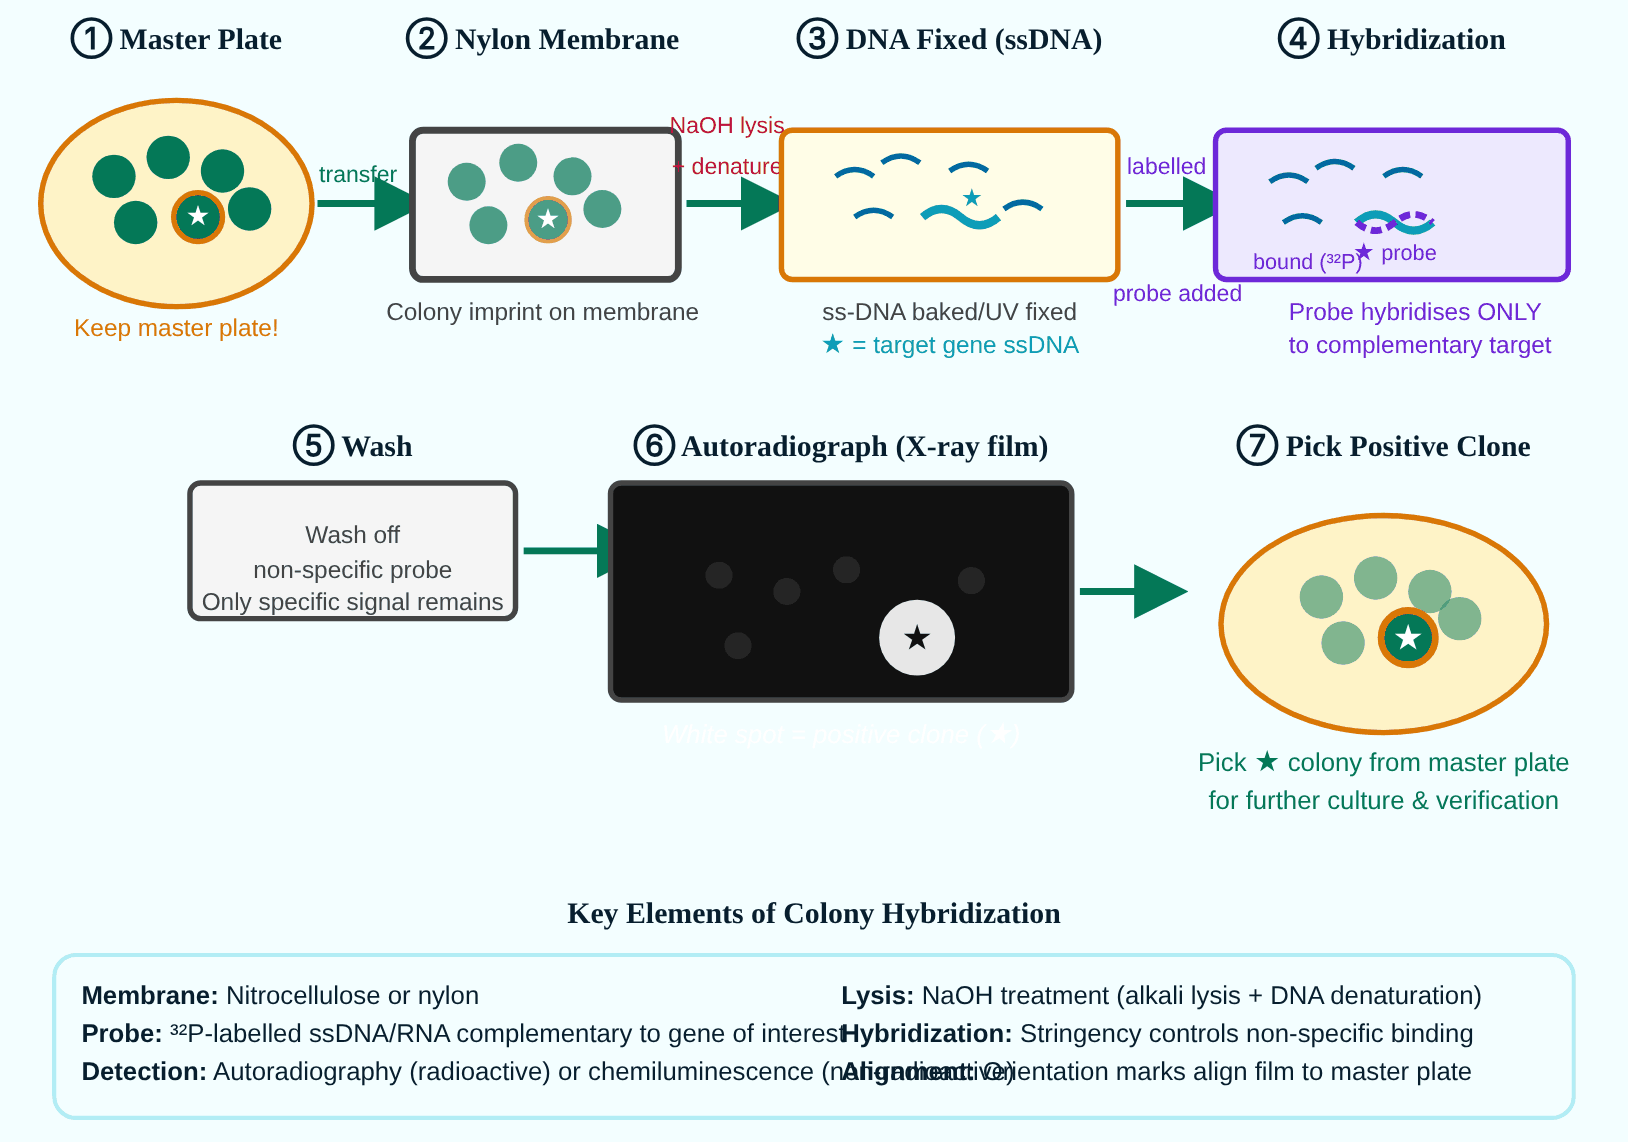
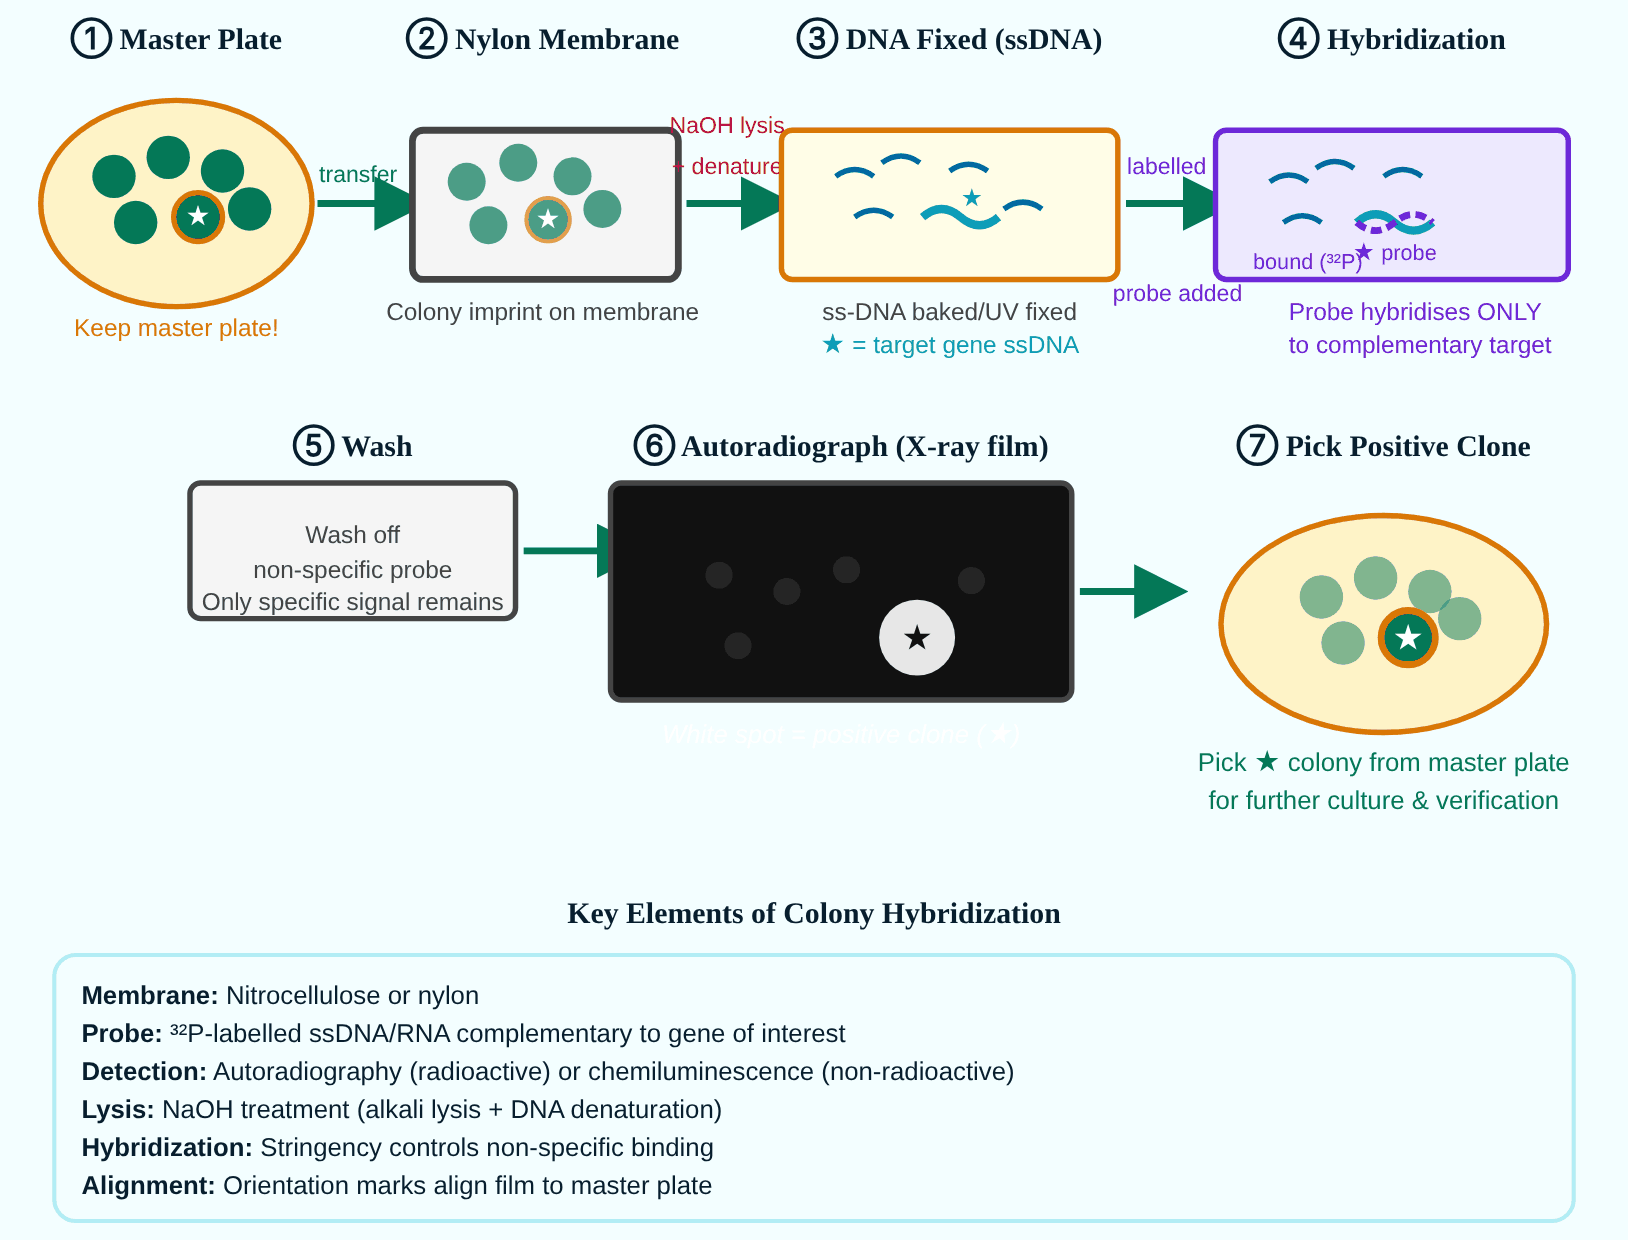
fix(diagrams): colony-hybridization key box and vector-size chart overlaps (layout only, text unchanged)
Claude-Session: https://claude.ai/code/session_01Wo7Biy93fw6YCyh6drJ1WX

diff --git a/html-suite/screening_selection_recombinants.html b/html-suite/screening_selection_recombinants.html
@@ -1120,7 +1120,7 @@ footer .fa{font-size:.82rem;color:#3d6870;margin-top:5px;}
        ============================================================ -->
   <div class="dtitle">Fig. 4 — Colony Hybridization: Step-by-Step Probe Detection</div>
   <div class="dbox">
-    <svg viewBox="0 0 600 420" xmlns="http://www.w3.org/2000/svg" aria-label="Colony hybridization steps">
+    <svg viewBox="0 0 600 456" xmlns="http://www.w3.org/2000/svg" aria-label="Colony hybridization steps">
       <defs>
         <marker id="ch1" markerWidth="8" markerHeight="8" refX="4" refY="4" orient="auto"><path d="M0,0 L0,8 L8,4 z" fill="#047857"/></marker>
       </defs>
@@ -1239,13 +1239,13 @@ footer .fa{font-size:.82rem;color:#3d6870;margin-top:5px;}
 
       <!-- Bottom legend -->
       <text x="300" y="340" text-anchor="middle" font-family="Palatino,serif" font-size="11" font-weight="700" fill="#071e2e">Key Elements of Colony Hybridization</text>
-      <rect x="20" y="352" width="560" height="60" rx="8" fill="#f3feff" stroke="#b2edf5" stroke-width="1.5"/>
+      <rect x="20" y="352" width="560" height="98" rx="8" fill="#f3feff" stroke="#b2edf5" stroke-width="1.5"/>
       <text x="30" y="370" font-family="'Trebuchet MS',sans-serif" font-size="9.5" fill="#071e2e"><tspan font-weight="700">Membrane:</tspan> Nitrocellulose or nylon</text>
       <text x="30" y="384" font-family="'Trebuchet MS',sans-serif" font-size="9.5" fill="#071e2e"><tspan font-weight="700">Probe:</tspan> ³²P-labelled ssDNA/RNA complementary to gene of interest</text>
       <text x="30" y="398" font-family="'Trebuchet MS',sans-serif" font-size="9.5" fill="#071e2e"><tspan font-weight="700">Detection:</tspan> Autoradiography (radioactive) or chemiluminescence (non-radioactive)</text>
-      <text x="310" y="370" font-family="'Trebuchet MS',sans-serif" font-size="9.5" fill="#071e2e"><tspan font-weight="700">Lysis:</tspan> NaOH treatment (alkali lysis + DNA denaturation)</text>
-      <text x="310" y="384" font-family="'Trebuchet MS',sans-serif" font-size="9.5" fill="#071e2e"><tspan font-weight="700">Hybridization:</tspan> Stringency controls non-specific binding</text>
-      <text x="310" y="398" font-family="'Trebuchet MS',sans-serif" font-size="9.5" fill="#071e2e"><tspan font-weight="700">Alignment:</tspan> Orientation marks align film to master plate</text>
+      <text x="30" y="412" font-family="'Trebuchet MS',sans-serif" font-size="9.5" fill="#071e2e"><tspan font-weight="700">Lysis:</tspan> NaOH treatment (alkali lysis + DNA denaturation)</text>
+      <text x="30" y="426" font-family="'Trebuchet MS',sans-serif" font-size="9.5" fill="#071e2e"><tspan font-weight="700">Hybridization:</tspan> Stringency controls non-specific binding</text>
+      <text x="30" y="440" font-family="'Trebuchet MS',sans-serif" font-size="9.5" fill="#071e2e"><tspan font-weight="700">Alignment:</tspan> Orientation marks align film to master plate</text>
     </svg>
   </div>
 

diff --git a/html-suite/dna_library_genomic_cdna.html b/html-suite/dna_library_genomic_cdna.html
@@ -1125,7 +1125,7 @@ footer .fa { font-size:0.82rem; color:#3d6870; margin-top:5px; }
       <line x1="365" y1="168" x2="365" y2="172" stroke="#082032" stroke-width="1.5"/>
       <line x1="540" y1="168" x2="540" y2="172" stroke="#082032" stroke-width="1.5"/>
       <!-- Y axis label -->
-      <text x="60" y="100" text-anchor="middle" font-family="'Trebuchet MS',sans-serif" font-size="10" fill="#496570" transform="rotate(-90 60 100)">Vector Type</text>
+      <text x="10" y="100" text-anchor="middle" font-family="'Trebuchet MS',sans-serif" font-size="10" fill="#496570" transform="rotate(-90 10 100)">Vector Type</text>
 
       <!-- Plasmid bar -->
       <rect x="100" y="30" width="100" height="25" rx="4" fill="#dbeafe" stroke="#0369a1" stroke-width="1.8"/>
@@ -1145,7 +1145,7 @@ footer .fa { font-size:0.82rem; color:#3d6870; margin-top:5px; }
       <!-- YAC bar -->
       <rect x="100" y="144" width="440" height="20" rx="4" fill="#ede9fe" stroke="#6d28d9" stroke-width="1.8"/>
       <text x="95" y="158" text-anchor="end" font-family="'Trebuchet MS',sans-serif" font-size="11" font-weight="700" fill="#6d28d9">YAC</text>
-      <text x="470" y="145" font-family="'Trebuchet MS',sans-serif" font-size="10" fill="#3b0764">200–2000 kb →</text>
+      <text x="470" y="141" font-family="'Trebuchet MS',sans-serif" font-size="10" fill="#3b0764">200–2000 kb →</text>
     </svg>
   </div>
 </section>
